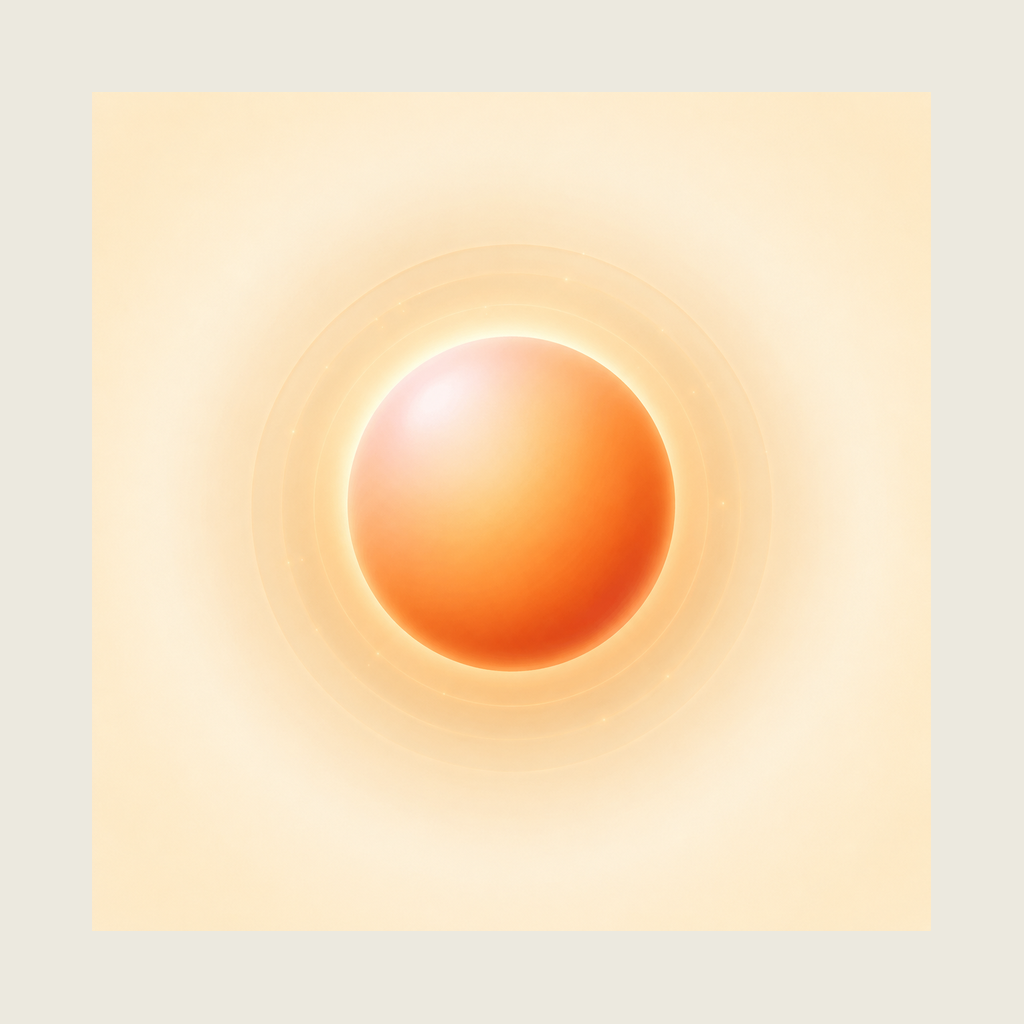
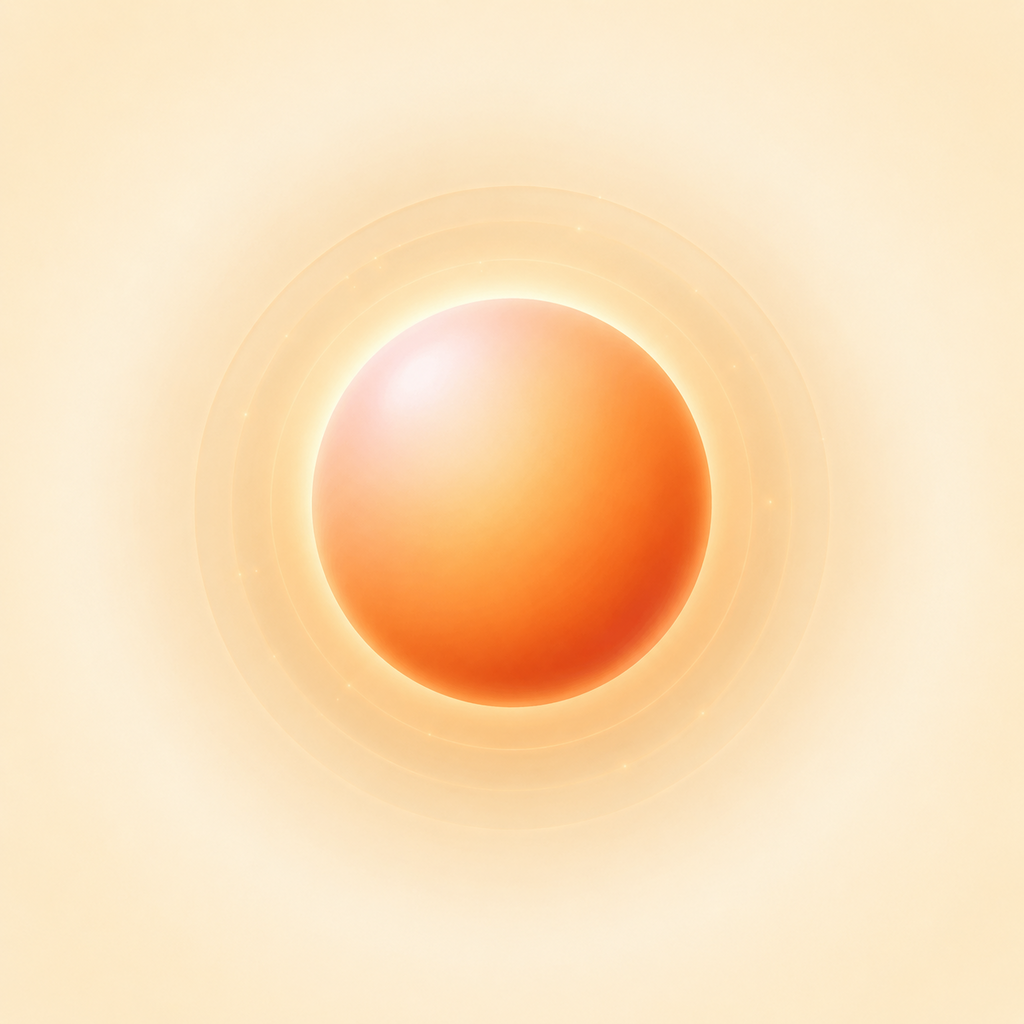
Refines mobile branding and splash screen
Updates app icons and splash screen assets for improved visual consistency.
Adjusts the splash screen's image size and background color to enhance the prominence and blending of the brand motif.
Renames marketing logo files for better clarity and standardization.

diff --git a/apps/mobile/app.config.ts b/apps/mobile/app.config.ts
@@ -131,8 +131,11 @@ const config: ExpoConfig = {
         // (bone → emberSoft → ember, lit upper-left) so the splash and the
         // app's central motif cannot drift apart.
         image: './assets/brand/splash-icon.png',
-        imageWidth: 180,
-        backgroundColor: '#ECE9DF',
+        // Larger mark (was 180) so the orb reads on the splash rather than
+        // floating small; the art feathers to transparent at its edges so it
+        // blends into the background with no square around it.
+        imageWidth: 220,
+        backgroundColor: '#FDEBC9',
         dark: {
           image: './assets/brand/splash-icon-dark.png',
           backgroundColor: '#171410',
